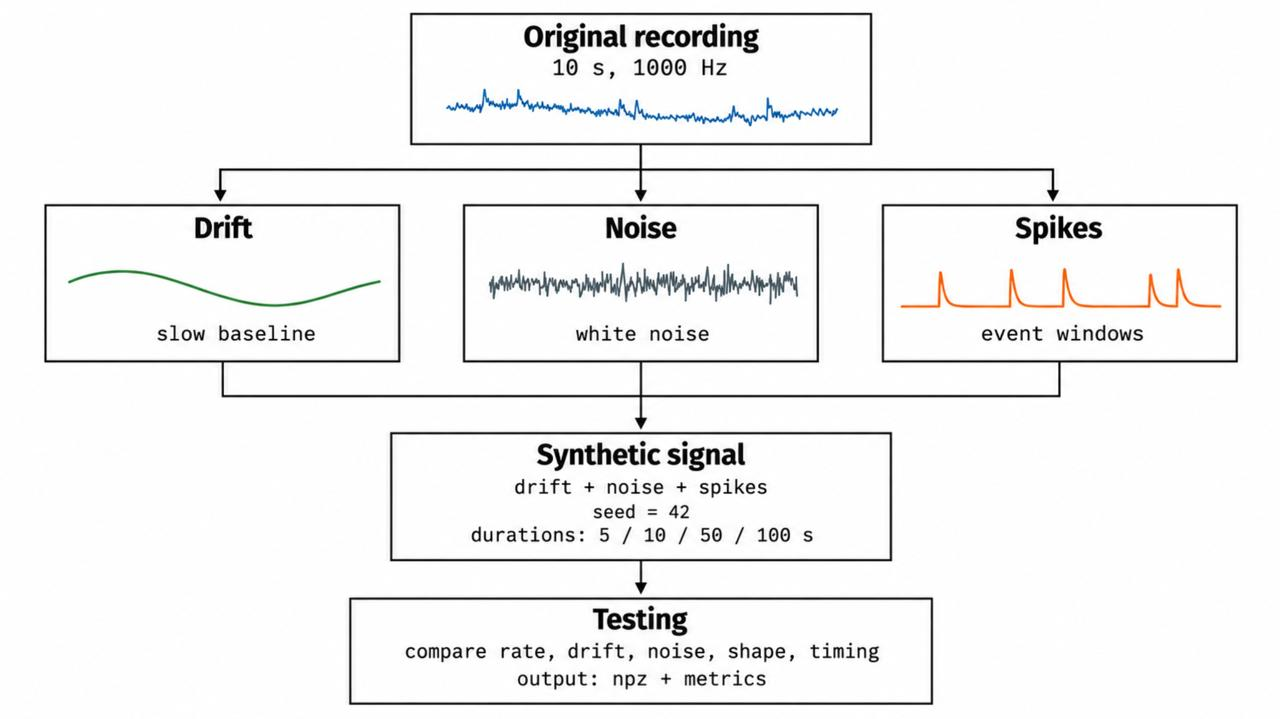
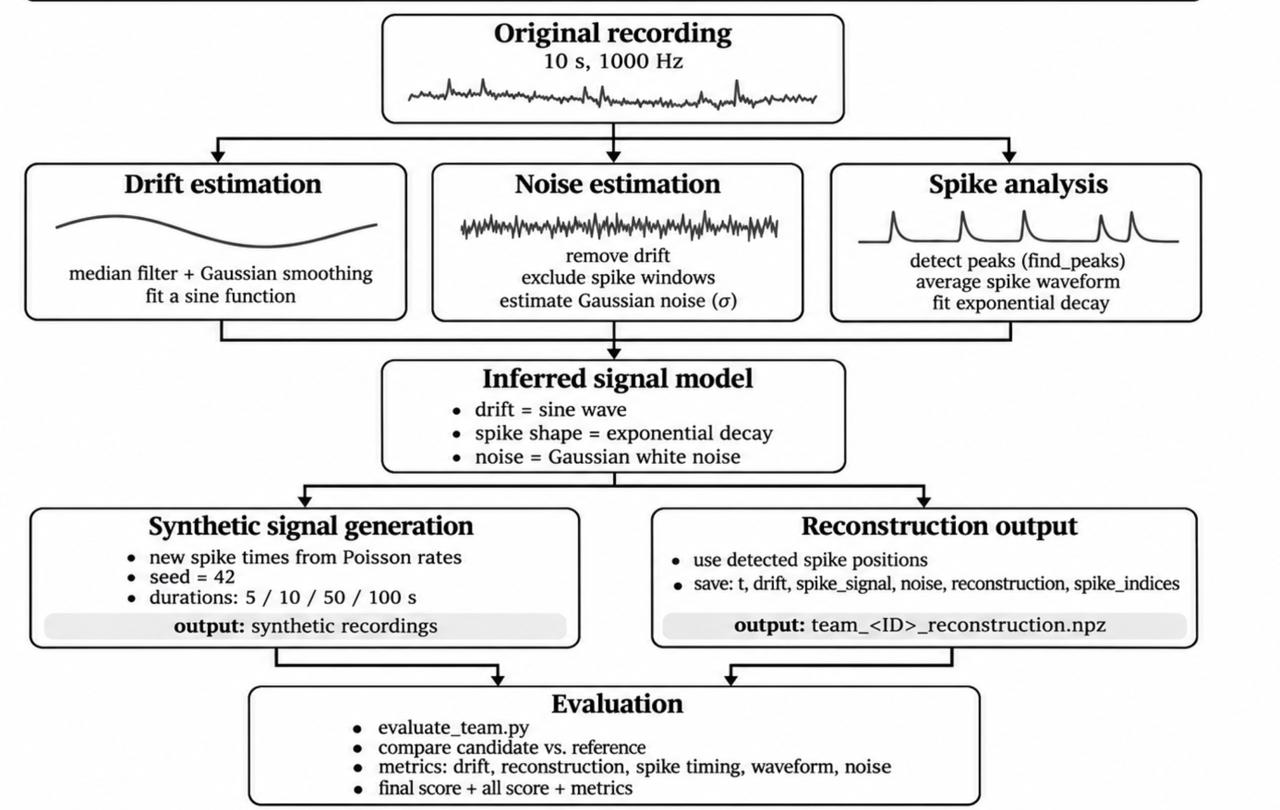
Update report and pipeline overview

Changed region(s): [[0.0, 0.0, 0.9688, 1.0], [0.6875, 0.459, 0.9688, 0.5508], [0.0, 0.765, 0.0312, 0.7955]]

diff --git a/Student_Report.md b/Student_Report.md
@@ -8,7 +8,7 @@ We had a 10-second recording (10,000 samples, 1000 Hz) with spikes, noise and a 
 V(t) = D(t) + N(t) + S(t)
 \]
 
-We first tried to understand each part in the original data, and then generated new values. We wanted the program to work not only for 10 seconds, but also for 5, 50 and 100 seconds.
+We first estimated these three components and used the fitted model to generate new recordings of 5, 10, 50 and 100 seconds. Later, for the inter-team competition, we also used the same approach to reconstruct the **original 10-second recording** and wrote a separate evaluator to compare teams. These are two different tasks: simulation makes new random recordings, while reconstruction tries to explain the recording we were given.
 
 ![Original neural recording](plots/original_recording.png)
 
@@ -20,6 +20,10 @@ We first tried to understand each part in the original data, and then generated 
 | **Noise** | Gaussian white noise | After removing the spikes and drift, the background looked approximately normally distributed and not strongly correlated. |
 | **Spike shape** | Exponential decay: `A_spike × exp(-t/tau)` | The visible spikes have a fast peak and a decreasing tail. We discussed this function as a simple first model. |
 | **Spike times** | Poisson counts in 1-second activity windows, plus 5-ms refractory time | From our lesson: activity is not the same everywhere. A Poisson model makes new random spikes, while the refractory time prevents events that are too close. |
+
+![Updated analysis and evaluation pipeline](plots/pipeline_summary.jpeg)
+
+*Updated pipeline. The fitted signal model is used in two ways: to generate new recordings with random spike times and to reconstruct the observed recording using detected spike positions. The two outputs are checked using different evaluation methods.*
 
 ## 2. How we estimated the parameters
 
@@ -125,8 +129,52 @@ For each criterion, we calculated the difference between the original and simula
 
 We chose practical tolerances for different measurements, and then added all the points. The score is **our own heuristic**, not an official grade or a statistical proof. Some metrics used inside the score (for example, Fano factor and KS distance) are not shown separately in the full comparison table to keep it shorter. For the 10-second simulation, the average spike shape and noise distribution looked especially close to the original.
 
-## 4. Limitations and sources of our ideas
+## 4. Reconstruction for the inter-team competition (new)
 
-We cannot recover the same random noise and spike moments. Also, we only have 10 seconds, so the periodic drift and the activity of a 100-second recording are **assumptions**. Our spike shape is simplified: we model the decay but not the full action potential. We would like to improve the ISI distribution later.
+For the competition, we needed to save our **estimate of the components of the original 10-second recording**, rather than another randomly generated signal. We added `scripts/03_create_reconstruction.py` for this. It independently runs the same estimation steps described above: smoothing and fitting the drift, finding positive spikes, fitting their average exponential shape, and estimating the noise level.
+
+For reconstruction, we **do not use the Poisson process to choose new spike times**. Instead, we put the fitted spike waveform at the 42 peak positions detected in the original recording. We add these spike waveforms to the fitted sine drift to obtain a clean structured estimate:
+
+`reconstruction = drift + spike_signal`
+
+We estimate the noise strength from the remaining signal outside spike windows and save a **separate newly generated Gaussian noise array** using seed 42. This array represents the assumed noise model; it is **not the exact noise originally present** in the recording. It is not added to the submitted `reconstruction` array, following the written instruction in the competition handout.
+
+The script creates `team_3_reconstruction.npz` with the six requested arrays:
+
+| Array | What it contains |
+|---|---|
+| `t` | Original time vector (10,000 samples) |
+| `drift` | Fitted sine drift (10,000 samples) |
+| `spike_signal` | Fitted spike waveforms placed at detected positions (10,000 samples) |
+| `noise` | Separate Gaussian noise realization, seed 42 (10,000 samples) |
+| `reconstruction` | Drift + spike signal, without the newly generated noise (10,000 samples) |
+| `spike_indices` | The 42 detected spike **peak** indices |
+
+We use peak indices as the start of our simplified spike template. The actual onset of a biological spike may occur earlier, so these indices are an approximation of the requested spike starting indices.
+
+## 5. Evaluating the reconstructions (new)
+
+We also added `evaluate_team.py`, which implements the required `evaluate(reference_file, candidate_file)` function. It checks the submitted file format first: required arrays, sizes, time vector, valid spike indices, and whether `reconstruction` equals `drift + spike_signal`. Invalid files receive a score of zero.
+
+For valid files, we compare five aspects of the candidate reconstruction with estimates obtained from the original recording:
+
+| Criterion | Points | How we evaluate it |
+|---|---:|---|
+| Drift | 20 | RMSE against a smoothed baseline estimate |
+| Structured reconstruction | 30 | RMSE against the original recording, allowing for the estimated noise level |
+| Spike timing | 25 | F1 score for matching detected spikes within ±5 ms |
+| Spike shape | 15 | RMSE of the average 9-sample spike waveform |
+| Noise | 10 | Noise standard deviation, mean, and lag-1 autocorrelation |
+| **Total** | **100** | |
+
+For the error-based metrics, we convert differences into points using a decreasing exponential function. The five scores are added to give the final result. The function returns a dictionary containing validity checks, metrics and `final_score`, so it can be run on our own file or another team's file.
+
+As a basic test, we evaluated `team_3_reconstruction.npz` against `spike_data.npz` and obtained **99.908 / 100**. All 42 detected peaks matched within 5 ms. This is a **self-evaluation result**, not an official competition grade. Our reconstructor and evaluator use similar baseline and spike-detection procedures, which can favour our own submission. Also, the hidden true drift, spikes and noise are unknown. The evaluator therefore measures consistency with estimates from the raw recording, not absolute recovery of the true components.
+
+The earlier **97.436 / 100** score for the 10-second synthetic recording and this **99.908 / 100** score measure different things and should not be compared as if they were the same test. The first checks the *statistics of a new random recording*; the second checks the *alignment and quality of the reconstructed original recording*.
+
+## 6. Limitations and sources of our ideas
+
+For the **synthetic recordings**, we cannot reproduce the original random noise or the same spike moments, and we do not try to. For the **reconstruction**, we use detected spike positions, but the original hidden components are still unknown. We only have 10 seconds, so the periodic drift and the activity of a 100-second recording are **assumptions**. Our spike shape is simplified: we model the decay but not the full action potential. We would like to improve the ISI distribution later, and a more independent reference-spike detection method would make the inter-team evaluator fairer.
 
 The main ideas came from **our class discussion** (Poisson process and activity windows), **Assignments 2A/2B** (spike detection and refractory period) and **basic mathematics** (sine and exponential functions). We used **ChatGPT and GitHub Copilot** for brainstorming, suggestions for Python code, debugging and ideas for the testing part. We checked the fitted numbers and outputs against the original recording. These tools helped us write and improve the code, but we made the modelling choices and discuss their limitations here. For Python functions we used the [SciPy documentation for `find_peaks`](https://docs.scipy.org/doc/scipy/reference/generated/scipy.signal.find_peaks.html) and [`curve_fit`](https://docs.scipy.org/doc/scipy/reference/generated/scipy.optimize.curve_fit.html).

diff --git a/README.md b/README.md
@@ -4,7 +4,7 @@ This project analyzes a 10-second neural recording and uses its estimated drift,
 
 **Authors:** Miloserdov Daniil, Anandita Banerjee, Mateo Maya Martinez
 
-<img src="plots/pipeline_summary.jpeg" alt="Pipeline Summary" width="650">
+<img src="plots/pipeline_summary.jpeg" alt="Updated analysis and evaluation pipeline" width="650">
 
 See [Student_Report.md](https://github.com/Anandita06/reverse_engineering_neural_spike_simulation/blob/main/Student_Report.md) for the full analysis and report.
 
